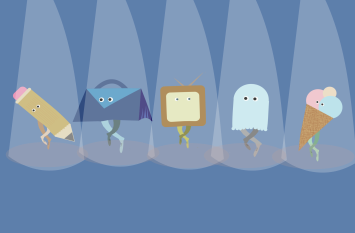
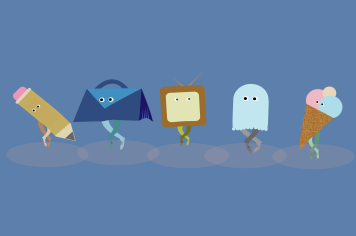
video_section

diff --git a/index.html b/index.html
@@ -74,7 +74,7 @@
                 <span class="border"></span>
             </div>
             <div class="image">
-                <img src="video_image.png" />
+                <img class="videoimage" src="video.png" />
             </div>
         </a>
 

diff --git a/main.css b/main.css
@@ -68,7 +68,7 @@ a.section {
 }
 
 .section.video {
-    background-color: #59769C;
+    background-color: #5d7fab;
 }
 
 .border {
@@ -149,4 +149,9 @@ a:hover {
 
 a:visited {
     color: black;
+}
+
+.videoimage{
+margin-top:20px;
+
 }
